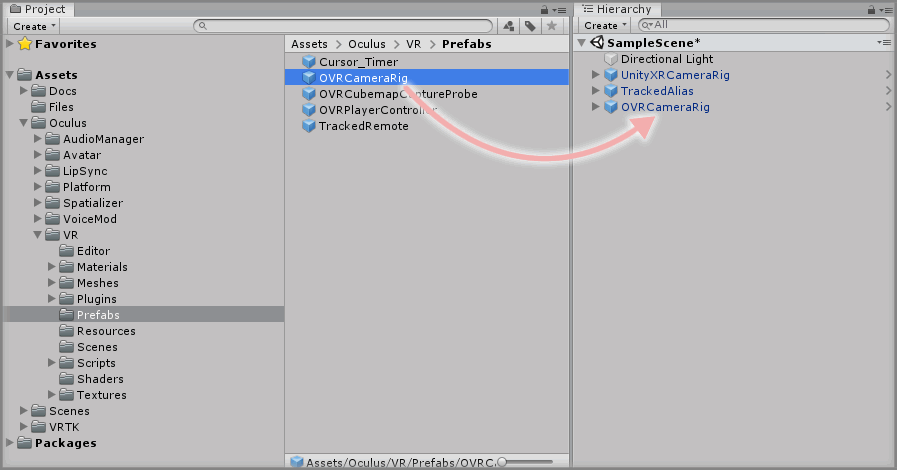
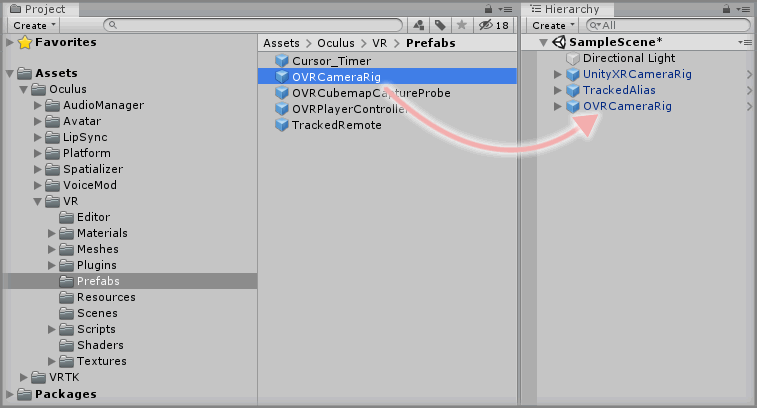
fix(Tutorials): reflect changes to TrackedAlias setup
The TrackedAlias no longer requires manipulating the observable list
as the custom inspector exposes the list in the TrackedAlias facade.

This tutorial has been updated to show this change.

Changed region(s): [[0.0, 0.0, 1.0, 1.0], [0.0, 0.1471, 0.3646, 1.0], [0.9723, 0.1765, 1.0, 0.2353]]

diff --git a/Documentation/Tutorials/WorkingWith3rdPartySDKs/UsingOculusIntegration/WorkingWithTheOVRCameraRig/README.md b/Documentation/Tutorials/WorkingWith3rdPartySDKs/UsingOculusIntegration/WorkingWithTheOVRCameraRig/README.md
@@ -29,17 +29,11 @@ The OVRCameraRig is a prefab from the Oculus Integration Unity Package that desc
 
 ### Step 1
 
-Expand the Oculus directory in the Unity Project window until the `Oculus -> VR -> Prefabs` directory is visible and select the `Prefabs` directory so the contents are displayed.
-
-![Unity Project Window](assets/images/UnityProjectWindow.png)
-
-### Step 2
-
-Select the `OVRCameraRig` prefab then drag and drop it into the Hierarchy window.
+Expand the Oculus directory in the Unity Project window until the `Oculus -> VR -> Prefabs` directory is visible and select the `Prefabs` directory so the contents are displayed then select the `OVRCameraRig` prefab then drag and drop it into the Hierarchy window.
 
 ![Drag OVRCameraRig To Hierarchy](assets/images/DragOVRCameraRigToHierarchy.png)
 
-### Step 3
+### Step 2
 
 Select the `OVRCameraRig` GameObject in the Unity Hierarchy window and review the settings in the `OVR Manager` component.
 
@@ -51,7 +45,7 @@ The tracking type will determine how the HMD is placed in the scene and is diffe
 
 ![OVRManager Tracking Origin Type](assets/images/OVRManagerTrackingOriginType.png)
 
-### Step 4
+### Step 3
 
 Now there is an `OVRCameraRig` configured in the scene so it's time to wrap it with VRTK so it can be utilized by the `TrackedAlias` prefab.
 
@@ -61,7 +55,7 @@ Click on the `Add Component` button on the `OVRCameraRig` GameObject and then se
 
 This component allows us to specify which elements of the `OVRCameraRig` prefab relate to the tracked elements required by the VRTK `TrackedAlias` prefab.
 
-### Step 5
+### Step 4
 
 Expand the `OVRCameraRig` GameObject in the Unity Hierarchy window until it is fully expanded and showing all child GameObjects. These child GameObjects represent the parts of the `OVRCameraRig` that make up the elements of the VR setup.
 
@@ -69,7 +63,7 @@ Let's start by linking the `Play Area` by dragging and dropping the `OVRCameraRi
 
 ![Drag OVRCameraRig To Play Area Parameter](assets/images/DragOVRCameraRigToPlayAreaParameter.png)
 
-### Step 6
+### Step 5
 
 Now to set up the Headset links, which comes in 3 parts:
 
@@ -83,7 +77,7 @@ Drag and drop the `OVRCameraRig -> TrackingSpace -> CenterEyeAnchor` GameObject 
 
 ![Drag OVRCameraRig Headset To Headset Parameters](assets/images/DragOVRCameraRigHeadsetToHeadsetParameters.png)
 
-### Step 7
+### Step 6
 
 Now to set up the Controller links. Oculus Integration supports two controllers a `Left` and a `Right` controller, each controller comes in 2 parts:
 
@@ -100,11 +94,11 @@ Drag and drop the `OVRCameraRig -> TrackingSpace -> LeftHandAnchor` GameObject i
 
 ![Drag OVRCameraRig Controller To Controller Parameter](assets/images/DragOVRCameraRigControllerToControllerParameter.png)
 
-### Step 8
+### Step 7
 
 The `OVRCameraRig` has now been configured so VRTK can recognize the various required elements for the `TrackedAlias` prefab. All that is left is to add the `OVRCameraRig` to our `TrackedAlias` in the scene.
 
-Select the `TrackedAlias` GameObject from the Unity Hierarchy window then drag and drop the `OVRCameraRig` GameObject into the `Elements -> Element 0` parameter on the `Linked Alias Association Collection Observable List` component.
+Select the `TrackedAlias` GameObject from the Unity Hierarchy window then drag and drop the `OVRCameraRig` GameObject into the `Camera Rigs -> Elements -> Element 0` parameter on the `Tracked Alias Facade` component.
 
 > Note: This `Element 0` parameter should already exist from the previous set up of the `TrackedAlias`, however if it doesn't exist then simply set the `Size` parameter to `1`.
 
